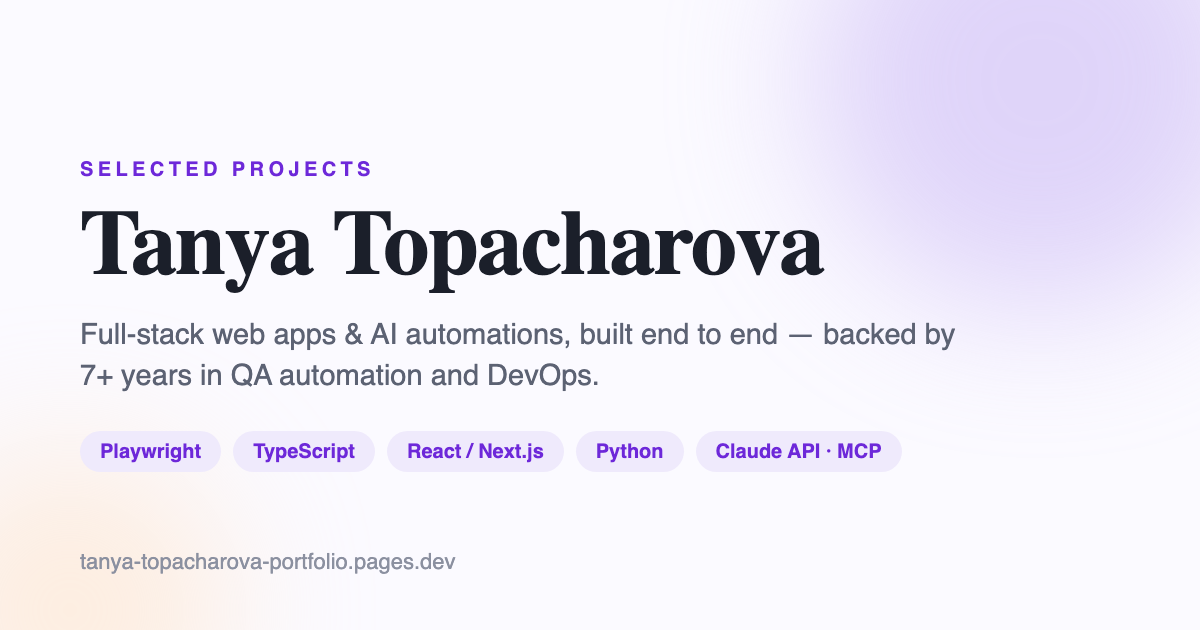
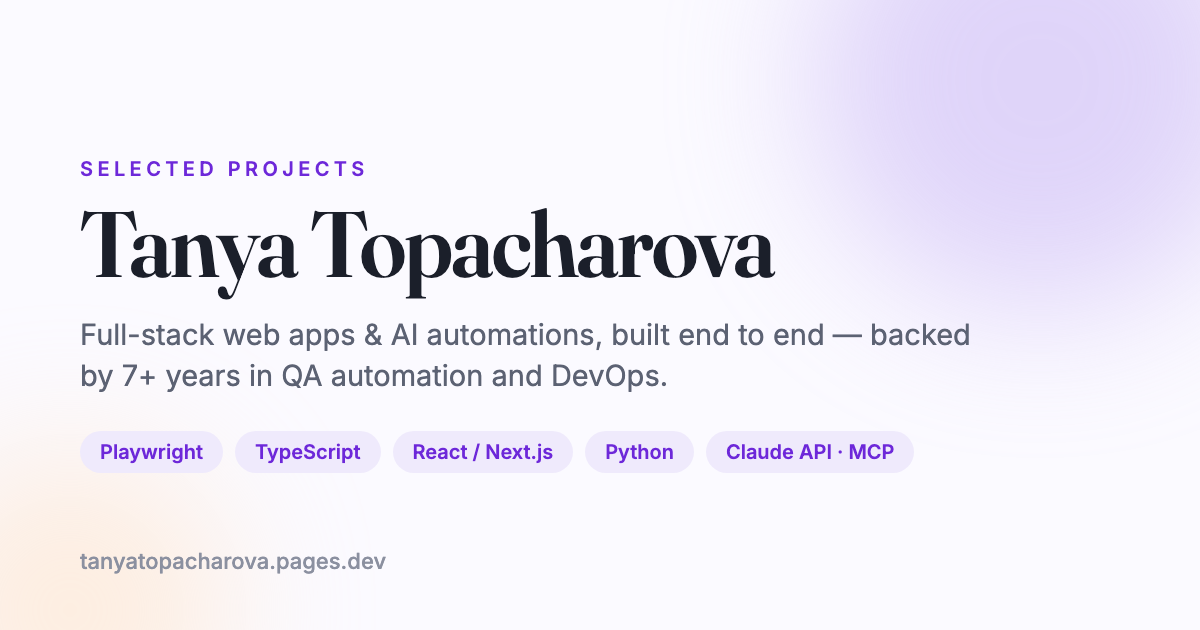
Point site to new tanyatopacharova.pages.dev domain (fresh URL for LinkedIn)

diff --git a/index.html b/index.html
@@ -5,13 +5,13 @@
 <meta name="viewport" content="width=device-width, initial-scale=1">
 <title>Tanya Topacharova — Selected Projects</title>
 <meta name="description" content="Selected projects by Tanya Topacharova — full-stack web apps and AI automations, backed by 7+ years in QA automation and DevOps.">
-<link rel="canonical" href="https://tanya-topacharova-portfolio.pages.dev/">
+<link rel="canonical" href="https://tanyatopacharova.pages.dev/">
 <!-- Open Graph (LinkedIn / Facebook) -->
 <meta property="og:type" content="website">
-<meta property="og:url" content="https://tanya-topacharova-portfolio.pages.dev/">
+<meta property="og:url" content="https://tanyatopacharova.pages.dev/">
 <meta property="og:title" content="Tanya Topacharova — Selected Projects">
 <meta property="og:description" content="Full-stack web apps & AI automations, built end to end — backed by 7+ years in QA automation and DevOps.">
-<meta property="og:image" content="https://tanya-topacharova-portfolio.pages.dev/images/og.png">
+<meta property="og:image" content="https://tanyatopacharova.pages.dev/images/og.png">
 <meta property="og:image:width" content="1200">
 <meta property="og:image:height" content="630">
 <meta property="og:image:alt" content="Tanya Topacharova — Selected Projects">
@@ -20,7 +20,7 @@
 <meta name="twitter:card" content="summary_large_image">
 <meta name="twitter:title" content="Tanya Topacharova — Selected Projects">
 <meta name="twitter:description" content="Full-stack web apps & AI automations — backed by 7+ years in QA automation and DevOps.">
-<meta name="twitter:image" content="https://tanya-topacharova-portfolio.pages.dev/images/og.png">
+<meta name="twitter:image" content="https://tanyatopacharova.pages.dev/images/og.png">
 <link rel="preconnect" href="https://fonts.googleapis.com">
 <link rel="preconnect" href="https://fonts.gstatic.com" crossorigin>
 <link href="https://fonts.googleapis.com/css2?family=Fraunces:opsz,wght@9..144,500;9..144,600;9..144,700&family=Inter:wght@400;500;600;700&display=swap" rel="stylesheet">
